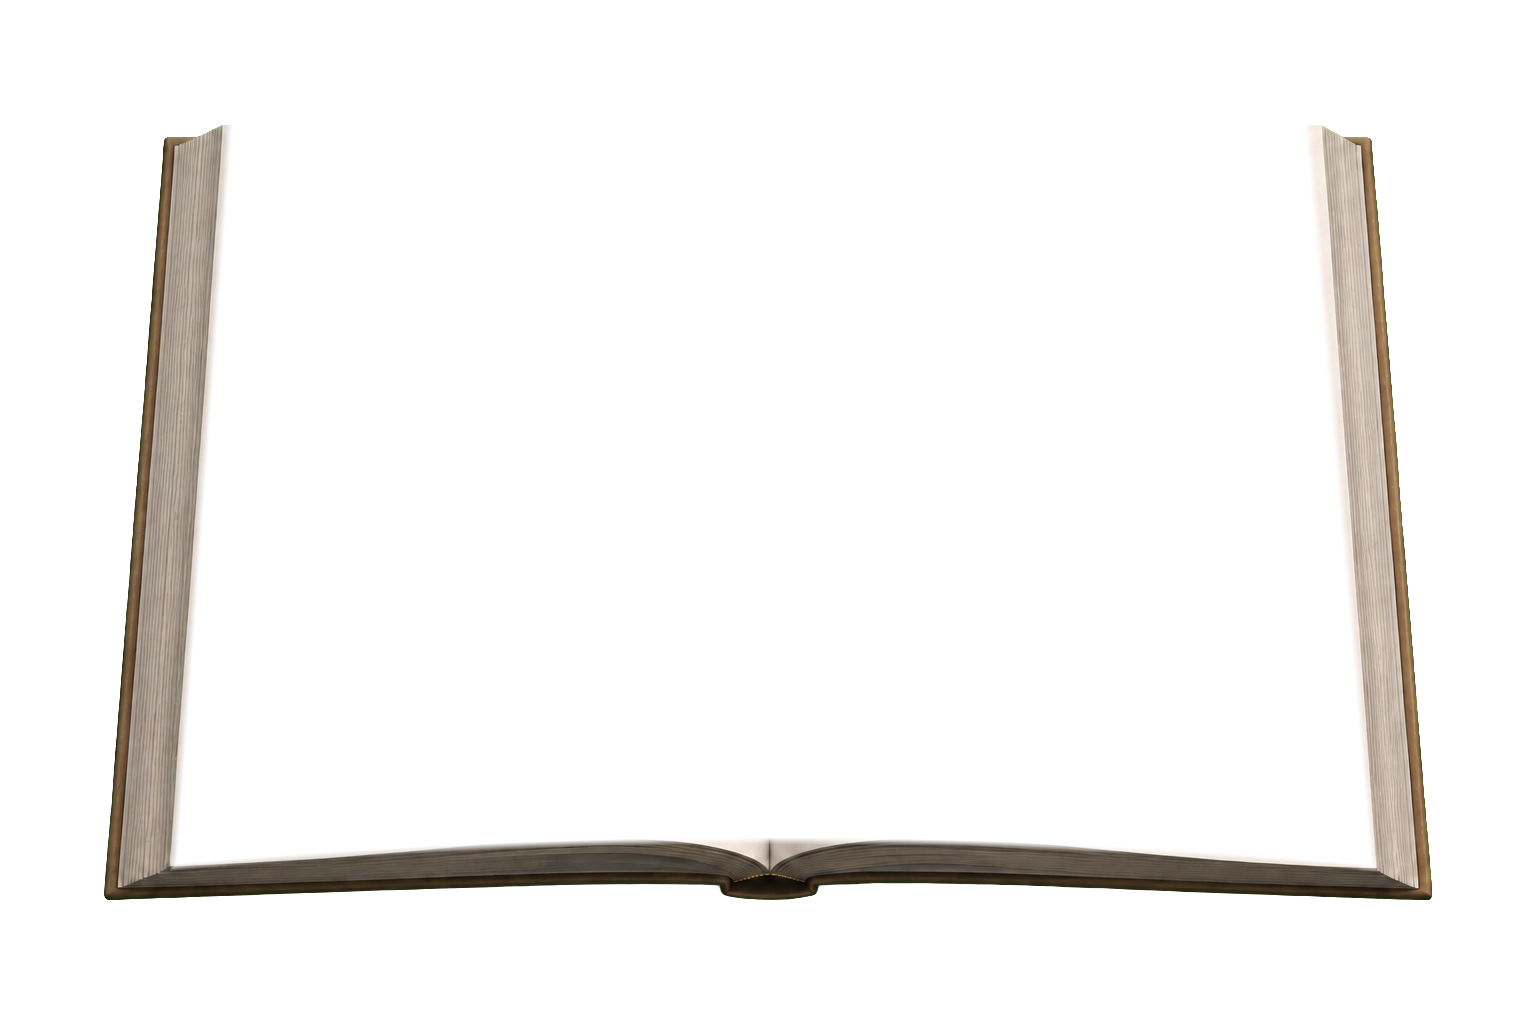
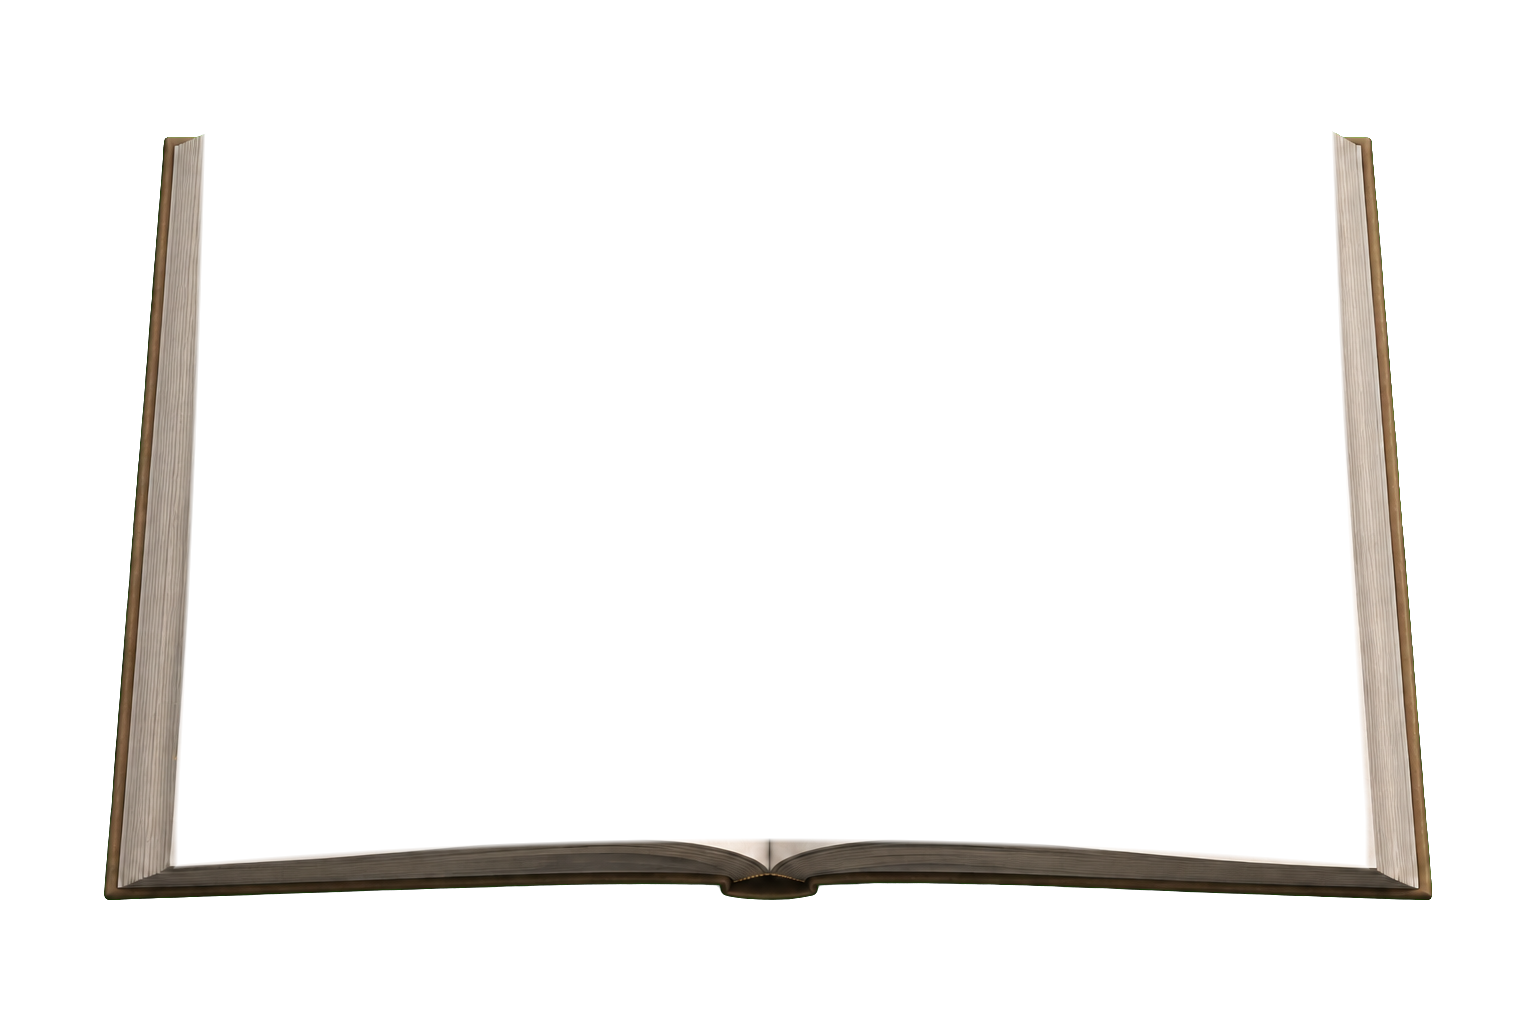
fix: refine WeiClaw book page edges

Changed region(s): [[0.0938, 0.125, 0.1562, 0.7188], [0.8438, 0.125, 0.875, 0.4375], [0.875, 0.8125, 0.9062, 0.8438]]

diff --git a/components/weiclaw/webglPaperRenderer.ts b/components/weiclaw/webglPaperRenderer.ts
@@ -77,9 +77,9 @@ const paperFragmentShader = `
     float spineShade = 1.0 - uSpineDarkening * exp(-pow(abs(vWorldPosition.x) / 0.19, 2.0));
     float crest = pow(max(dot(normal, normalize(vec3(-0.31, 0.33, 1.0))), 0.0), 8.0) * 0.038;
     float pageDistance = abs(vWorldPosition.x);
-    float innerLift = mix(0.052, 0.014, uSettled) * exp(-pow((pageDistance - 0.18) / 0.15, 2.0));
-    float middleSettle = mix(0.034, 0.005, uSettled) * exp(-pow((pageDistance - 0.57) / 0.32, 2.0));
-    float outerLift = mix(0.022, 0.003, uSettled) * smoothstep(0.78, 1.02, pageDistance);
+    float innerLift = mix(0.052, 0.023, uSettled) * exp(-pow((pageDistance - 0.2) / 0.18, 2.0));
+    float middleSettle = mix(0.034, 0.008, uSettled) * exp(-pow((pageDistance - 0.58) / 0.34, 2.0));
+    float outerLift = mix(0.022, 0.006, uSettled) * smoothstep(0.79, 1.02, pageDistance);
     float foldLighting = 1.0 + innerLift - middleSettle + outerLift;
     vec2 paperUv = vec2(uBackFace > 0.5 ? 1.0 - vUv.x : vUv.x, vUv.y);
     vec4 paper = texture2D(uPageTexture, paperUv);
@@ -112,7 +112,18 @@ const solidFragmentShader = `
 
 const clamp = (value: number, min = 0, max = 1) => Math.min(max, Math.max(min, value));
 
-export function buildPaperDrawPlan({ direction }: Pick<PaperRenderFrame, "direction">): PaperDrawOperation[] {
+type PaperDrawPlanInput = Pick<PaperRenderFrame, "direction"> & Partial<
+  Pick<PaperRenderFrame, "hoverDirection" | "hoverLift" | "reducedMotion">
+>;
+
+function resolveActiveDirection(frame: PaperDrawPlanInput): TurnDirection | null {
+  if (frame.direction) return frame.direction;
+  if (frame.reducedMotion || !frame.hoverDirection || (frame.hoverLift ?? 0) <= 0) return null;
+  return frame.hoverDirection;
+}
+
+export function buildPaperDrawPlan(frame: PaperDrawPlanInput): PaperDrawOperation[] {
+  const direction = resolveActiveDirection(frame);
   const operations: PaperDrawOperation[] = [
     { kind: "paper", side: "left", texture: direction === "previous" ? "under" : "left" },
     { kind: "paper", side: "right", texture: direction === "next" ? "under" : "right" },
@@ -291,41 +302,50 @@ export class WeiClawPaperRenderer {
     if (this.disposed) return;
     const gl = this.gl;
     gl.clear(gl.COLOR_BUFFER_BIT | gl.DEPTH_BUFFER_BIT);
-    const turningMesh = frame.direction ? this.createTurningMesh(frame) : null;
+    const activeDirection = resolveActiveDirection(frame);
+    const hoverTurn = !frame.direction && Boolean(activeDirection);
+    const activeProgress = frame.direction
+      ? clamp(frame.progress)
+      : clamp(0.105 * frame.hoverLift);
+    const turningMesh = activeDirection
+      ? this.createTurningMesh(frame, activeDirection, activeProgress, hoverTurn ? frame.hoverLift : 0)
+      : null;
     const plan = buildPaperDrawPlan(frame);
 
     for (const operation of plan) {
       if (operation.kind === "paper") {
-        const mesh = this.createSettledMesh(operation.side, frame);
-        this.drawPaperSurface(mesh, frame.textures[operation.texture], "settled", frame.direction);
+        const mesh = this.createSettledMesh(operation.side);
+        this.drawPaperSurface(mesh, frame.textures[operation.texture], "settled", activeDirection);
       } else if (operation.kind === "shadow" && turningMesh) {
-        this.drawProjectedShadow(turningMesh, frame.progress);
+        this.drawProjectedShadow(turningMesh, hoverTurn ? Math.max(activeProgress, 0.18) : activeProgress);
       } else if (operation.kind === "turning" && turningMesh) {
-        this.drawPaperSurface(turningMesh, frame.textures[operation.texture], operation.face, frame.direction);
+        this.drawPaperSurface(turningMesh, frame.textures[operation.texture], operation.face, activeDirection);
       } else if (operation.kind === "edge" && turningMesh) {
-        this.drawPageEdge(turningMesh, frame.progress);
+        this.drawPageEdge(turningMesh, hoverTurn ? Math.max(activeProgress, 0.12) : activeProgress);
       }
     }
     this.releaseUnusedTextures(frame.textures);
   }
 
-  private createSettledMesh(side: "left" | "right", frame: PaperRenderFrame) {
-    const hoverMatches = (side === "right" && frame.hoverDirection === "next")
-      || (side === "left" && frame.hoverDirection === "previous");
+  private createSettledMesh(side: "left" | "right") {
     return createPaperMesh({
       ...this.resolution,
       width: 1,
       height: 1.28,
       side,
-      mode: hoverMatches && frame.hoverLift > 0 ? "turning" : "settled",
+      mode: "settled",
       direction: side === "right" ? "next" : "previous",
       progress: 0,
-      cornerLift: frame.reducedMotion ? 0 : frame.hoverLift,
+      cornerLift: 0,
     });
   }
 
-  private createTurningMesh(frame: PaperRenderFrame) {
-    const direction = frame.direction ?? "next";
+  private createTurningMesh(
+    frame: PaperRenderFrame,
+    direction: TurnDirection,
+    progress: number,
+    cornerLift = 0,
+  ) {
     return createPaperMesh({
       ...this.resolution,
       width: 1,
@@ -333,7 +353,8 @@ export class WeiClawPaperRenderer {
       side: direction === "next" ? "right" : "left",
       mode: "turning",
       direction,
-      progress: clamp(frame.progress),
+      progress: clamp(progress),
+      cornerLift: frame.reducedMotion ? 0 : cornerLift,
     });
   }
 

diff --git a/app/globals.css b/app/globals.css
@@ -498,13 +498,15 @@ a:focus-visible { outline: 1px solid var(--accent); outline-offset: 5px; }
 .weiclaw-book__artwork img { display:block; width:100%; height:100%; object-fit:cover; filter:saturate(.72) sepia(.1) contrast(.91) brightness(1.045); }
 .weiclaw-book__paper-canvas { position:absolute; z-index:6; inset:5.6% 8.2% 10%; display:block; width:83.6%; height:84.4%; filter:drop-shadow(0 2px 1px rgba(59,40,27,.34)) drop-shadow(0 8px 6px rgba(27,18,12,.15)); pointer-events:none; }
 .weiclaw-book__page-stack { position:absolute; z-index:7; inset:0; display:block; width:100%; height:100%; object-fit:contain; filter:drop-shadow(0 2px 1px rgba(38,26,17,.2)); pointer-events:none; }
-.weiclaw-book__gutter { position:absolute; z-index:5; top:10.5%; bottom:13.8%; left:50%; width:15%; border-radius:46%; background:linear-gradient(90deg,transparent 3%,rgba(76,53,36,.018) 24%,rgba(52,35,24,.038) 43%,rgba(40,27,19,.052) 50%,rgba(76,53,36,.032) 59%,rgba(255,245,224,.018) 75%,transparent 97%); filter:blur(16px); transform:translateX(-50%); pointer-events:none; }
+.weiclaw-book-stage:is(.is-edge-next,.is-edge-previous) .weiclaw-book__paper-canvas,
+.weiclaw-book.is-turn-active .weiclaw-book__paper-canvas { z-index:8; }
+.weiclaw-book__gutter { position:absolute; z-index:9; top:10.5%; bottom:13.8%; left:50%; width:16%; border-radius:46%; background:linear-gradient(90deg,transparent 3%,rgba(76,53,36,.015) 24%,rgba(52,35,24,.032) 43%,rgba(40,27,19,.046) 50%,rgba(76,53,36,.027) 59%,rgba(255,245,224,.016) 75%,transparent 97%); filter:blur(17px); transform:translateX(-50%); pointer-events:none; }
 .weiclaw-book__semantic-pages { position:absolute; width:1px; height:1px; padding:0; margin:-1px; overflow:hidden; clip:rect(0,0,0,0); white-space:nowrap; border:0; }
 .weiclaw-book__edge-hit { position:absolute; z-index:12; top:15%; bottom:17%; width:10%; border:0; background:transparent; cursor:ew-resize; }
 .weiclaw-book__edge-hit:disabled { cursor:default; }
 .weiclaw-book__edge-hit--left { left:9%; }
 .weiclaw-book__edge-hit--right { right:9%; }
-.weiclaw-book__status { position:absolute; right:2%; bottom:-7%; display:flex; align-items:baseline; gap:12px; color:rgba(241,239,233,.42); font-family:var(--font-geist-mono),monospace; font-size:8px; letter-spacing:.13em; }
+.weiclaw-book__status { position:absolute; right:7%; bottom:-3.5%; display:flex; align-items:baseline; gap:12px; color:rgba(241,239,233,.68); font-family:var(--font-geist-mono),monospace; font-size:10px; letter-spacing:.1em; text-shadow:0 1px 8px rgba(0,0,0,.48); }
 .weiclaw-book__status b { color:var(--accent); font-size:15px; font-weight:500; letter-spacing:-.08em; }
 .weiclaw-book__overlay { position:fixed; z-index:90; inset:0; display:grid; place-items:center; padding:8vh 7vw; background:rgba(7,7,7,.42); backdrop-filter:blur(14px); animation:weiclaw-overlay-in 360ms ease both; }
 @keyframes weiclaw-overlay-in { from { opacity:0; } to { opacity:1; } }

diff --git a/components/WeiClawBook.tsx b/components/WeiClawBook.tsx
@@ -101,9 +101,10 @@ export default function WeiClawBook() {
   const nextSpreadRight = weiclawBookPages[spreadStart + 3] ?? null;
   const previousSpreadLeft = weiclawBookPages[Math.max(0, spreadStart - 2)] ?? currentPage;
   const previousSpreadRight = weiclawBookPages[Math.max(0, spreadStart - 1)] ?? currentPage;
-  const turnFrontPage = dragDirection === "previous" ? currentPage : nextPage;
-  const turnBackPage = dragDirection === "previous" ? previousSpreadRight : nextSpreadLeft;
-  const underPage = dragDirection === "previous" ? previousSpreadLeft : nextSpreadRight;
+  const activePaperDirection = dragDirection ?? hoverEdge;
+  const turnFrontPage = activePaperDirection === "previous" ? currentPage : nextPage;
+  const turnBackPage = activePaperDirection === "previous" ? previousSpreadRight : nextSpreadLeft;
+  const underPage = activePaperDirection === "previous" ? previousSpreadLeft : nextSpreadRight;
   const canGoPrevious = spreadStart > 0;
   const canGoNext = spreadStart + 2 < weiclawBookPages.length;
 
@@ -157,6 +158,7 @@ export default function WeiClawBook() {
       setTurning(null);
       setReturning(null);
       setDragDirection(null);
+      setHoverEdge(null);
       setProgress(0);
     });
   };
@@ -367,7 +369,7 @@ export default function WeiClawBook() {
           <button className="weiclaw-book__edge-hit weiclaw-book__edge-hit--left" type="button" aria-label="Previous page" onPointerDown={(event) => onPointerDown(event, "previous")} onClick={(event) => onEdgeClick(event, "previous")} disabled={!canGoPrevious || Boolean(turning)} />
           <button className="weiclaw-book__edge-hit weiclaw-book__edge-hit--right" type="button" aria-label="Next page" onPointerDown={(event) => onPointerDown(event, "next")} onClick={(event) => onEdgeClick(event, "next")} disabled={!canGoNext || Boolean(turning)} />
         </div>
-        <div className="weiclaw-book__status"><b>{currentPage.number} / {String(weiclawBookPages.length).padStart(2, "0")}</b><span>DRAG THE PAGE TO EXPLORE</span></div>
+        <div className="weiclaw-book__status"><b>{currentPage.number} / {String(weiclawBookPages.length).padStart(2, "0")}</b><span>拖动页角翻页</span></div>
       </div>
 
       {previewPage && (

diff --git a/components/weiclaw/pageTextureLayout.ts b/components/weiclaw/pageTextureLayout.ts
@@ -13,7 +13,7 @@ export type PagePrintLayout = {
 const layouts: Record<WeiClawBookPage["layout"], PagePrintLayout> = {
   "dashboard-bleed": {
     header: { x: 0.12, y: 0.065, width: 0.46, height: 0.24 },
-    image: { x: -0.03, y: 0.38, width: 1.06, height: 0.52 },
+    image: { x: -0.025, y: 0.36, width: 1.05, height: 0.55 },
     note: { x: 0.61, y: 0.1, width: 0.26, height: 0.18 },
     imageRotation: -0.004,
   },
@@ -25,16 +25,16 @@ const layouts: Record<WeiClawBookPage["layout"], PagePrintLayout> = {
   },
   "customer-dominant": {
     header: { x: 0.11, y: 0.07, width: 0.52, height: 0.22 },
-    image: { x: 0.06, y: 0.34, width: 0.4, height: 0.59 },
+    image: { x: 0.02, y: 0.33, width: 0.42, height: 0.6 },
     note: { x: 0.66, y: 0.09, width: 0.24, height: 0.16 },
-    detailImages: [{ x: 0.4, y: 0.39, width: 0.56, height: 0.5 }],
+    detailImages: [{ x: 0.4, y: 0.35, width: 0.57, height: 0.58 }],
     imageRotation: -0.006,
   },
   "agent-details": {
     header: { x: 0.1, y: 0.07, width: 0.5, height: 0.23 },
-    image: { x: 0.06, y: 0.4, width: 0.4, height: 0.45 },
+    image: { x: 0.04, y: 0.34, width: 0.41, height: 0.56 },
     note: { x: 0.66, y: 0.08, width: 0.25, height: 0.18 },
-    detailImages: [{ x: 0.28, y: 0.49, width: 0.68, height: 0.4 }],
+    detailImages: [{ x: 0.27, y: 0.37, width: 0.7, height: 0.55 }],
     imageRotation: 0.005,
   },
   "settings-wide": {

diff --git a/components/weiclaw/WeiClawPaperMesh.tsx b/components/weiclaw/WeiClawPaperMesh.tsx
@@ -173,7 +173,7 @@ export default function WeiClawPaperMesh(props: WeiClawPaperMeshProps) {
       underPage: props.underPage,
       turningFrontPage: props.turningFrontPage,
       turningBackPage: props.turningBackPage,
-      direction: props.direction,
+      direction: props.direction ?? props.hoverDirection,
     });
     const activeKeys = new Set<string>();
 
@@ -216,6 +216,7 @@ export default function WeiClawPaperMesh(props: WeiClawPaperMeshProps) {
     };
   }, [
     props.direction,
+    props.hoverDirection,
     props.leftPage,
     props.rightPage,
     props.turningBackPage,

diff --git a/components/weiclaw/paperGeometry.ts b/components/weiclaw/paperGeometry.ts
@@ -209,9 +209,9 @@ export function createPaperMesh(options: PaperMeshOptions): PaperMesh {
           const hoverFold = options.cornerLift
             * Math.pow(smoothstep(0.58, 1, u), 2)
             * Math.pow(smoothstep(0.5, 1, v), 2);
-          x -= movingSide * hoverFold * 0.06;
-          y += hoverFold * 0.045;
-          z += hoverFold * 0.085;
+          x -= movingSide * hoverFold * 0.085;
+          y += hoverFold * 0.065;
+          z += hoverFold * 0.12;
         }
         previousAngle = tangentAngle;
       }

diff --git a/data/weiclaw-book.ts b/data/weiclaw-book.ts
@@ -35,7 +35,7 @@ export const weiclawBookPages: WeiClawBookPage[] = [
     image: "/images/weiclaw/pages/dashboard.png",
     note: "全局数据概览 / 一目了然",
     layout: "dashboard-bleed",
-    imageCrop: { x: 0.05, y: 0.06, width: 0.92, height: 0.82 },
+    imageCrop: { x: 0.14, y: 0.08, width: 0.8, height: 0.72 },
   },
   {
     id: "chat",

diff --git a/design-qa.md b/design-qa.md
@@ -50,6 +50,44 @@ final result: passed
 
 ---
 
+# Design QA — WeiClaw Page-Edge Hierarchy and Hover Curl v5
+
+## Comparison target
+
+- Original visual direction: `/var/folders/9j/_8nq6sh97tbf3k2rgt35gg7c0000gn/T/codex-clipboard-9283f247-4574-430b-8317-8b0f4440584b.png`
+- Revised first spread: `/Users/xuanyumacbook/Personal-Website/audit/weiclaw-self-review-2026-08-31/07-final-rest.png`
+- Revised hover curl: `/Users/xuanyumacbook/Personal-Website/audit/weiclaw-self-review-2026-08-31/08-final-hover.png`
+- Revised second spread: `/Users/xuanyumacbook/Personal-Website/audit/weiclaw-self-review-2026-08-31/06-second-spread-after.png`
+- Side-by-side source/implementation comparison: `/Users/xuanyumacbook/Personal-Website/audit/weiclaw-self-review-2026-08-31/09-reference-final-comparison.png`
+- Route: `http://127.0.0.1:4173/?audit=verified#project-weiclaw`
+- Browser viewport: 1076 × 922 CSS px
+
+## Findings and fixes
+
+1. The prior hover state only deformed a settled mesh, so the page corner was almost indistinguishable. Hover now uses the same physical render order as a turn: receiver page, projected shadow, paper back, printed front, and page edge. Reduced motion continues to show the settled spread.
+2. The prior side stacks read as broad, straight vertical strips. Their photographic mask now follows a narrower curved boundary with a shorter feather, preserving many real paper layers without becoming a frame.
+3. The live sheet and shell now share a stronger broad inner-crest/middle-settle/outer-lift lighting rhythm. The photographic page stack remains above settled paper, while the deforming sheet rises above it only during hover or a real turn.
+4. Dashboard now uses a tighter intentional crop that removes the dark application rail and enlarges the operational metrics. Customer and AI Agent fragments occupy more of the lower editorial field while retaining two distinct page rhythms and full black/midtone detail.
+5. The turn cue is now the clearer Chinese label `拖动页角翻页`, positioned closer to the book with higher legibility.
+
+## Visual review
+
+- No actionable P0/P1/P2 mismatch remains for the requested page-edge hierarchy and ordered repair pass.
+- The static spread clearly preserves left, right, and bottom paper stacks, a hard cover, contact shadow, central binding valley, and stiff top sheets.
+- The hover state is deliberately restrained: the lower fore-corner lifts, exposes the receiver sheet, and gains a moving contact shadow without introducing the previously rejected permanent triangular curl.
+- The original mock uses a larger dramatic pre-curled sheet. The current settled state intentionally follows the user's later request for a normal page at rest and reserves the visible curl for hover/drag.
+
+## Interaction checks
+
+- Right-edge hover enters `is-edge-next` and renders the physical curl path without changing `01 / 05`.
+- Next-page control completes `01 / 05` → `03 / 05`; previous-page control restores the first spread.
+- The side/bottom page stack remains registered after spread changes.
+- The drag implementation and `p = 0.2 / 0.5 / 0.8` geometry regressions remain covered by the WeiClaw test suite.
+
+final result: passed
+
+---
+
 # Design QA — WeiClaw Balanced Curvature and Editorial Spread v4
 
 ## Comparison target
